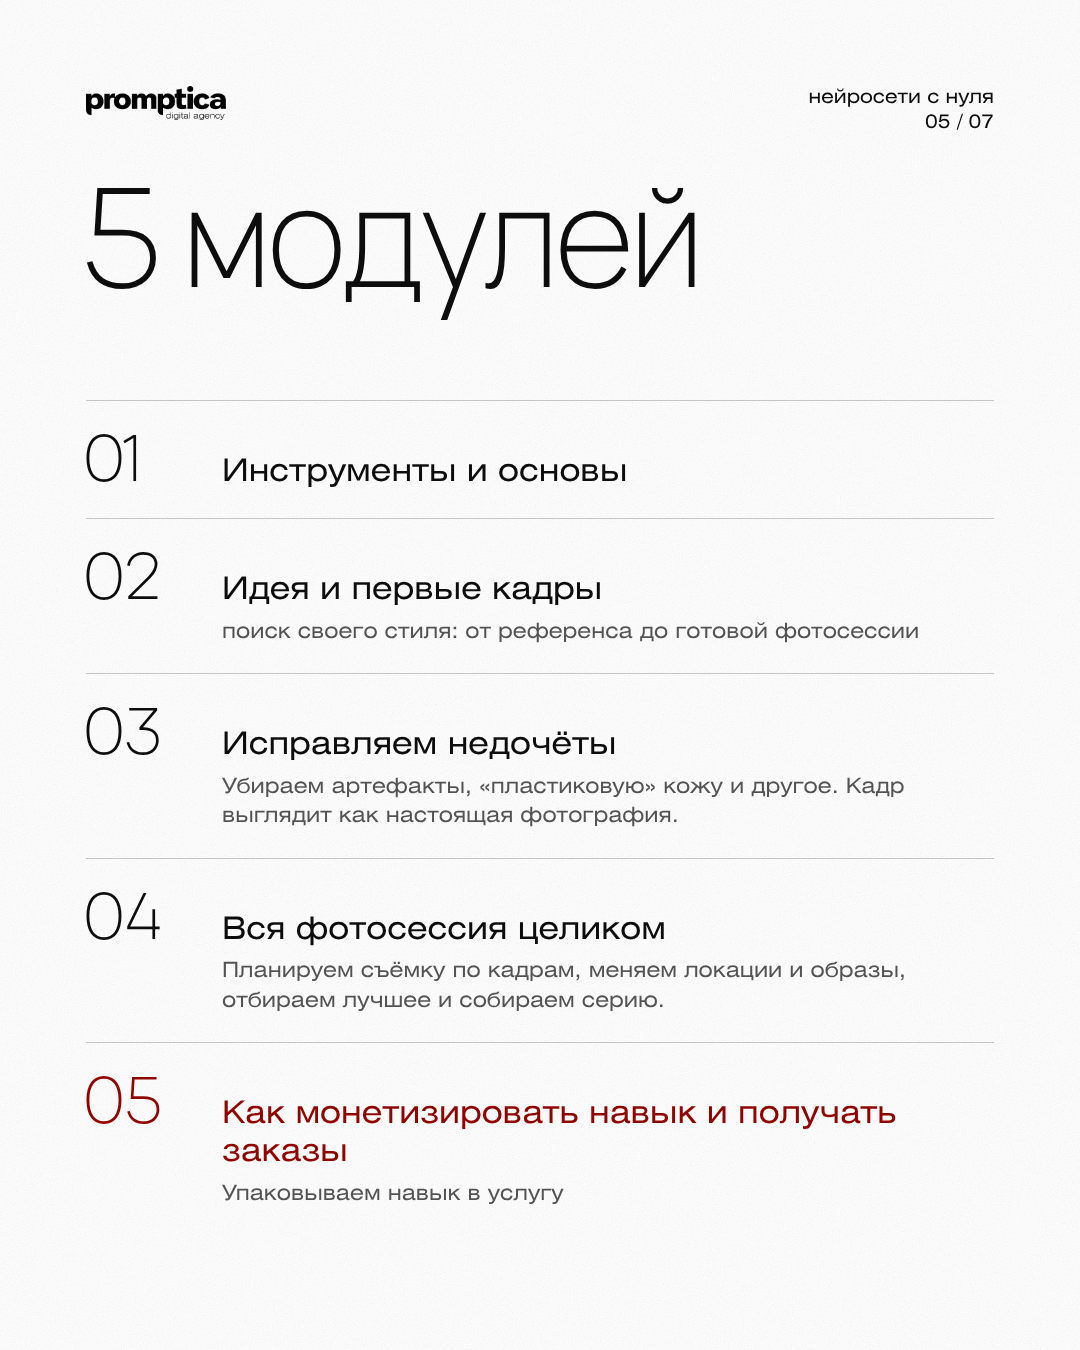
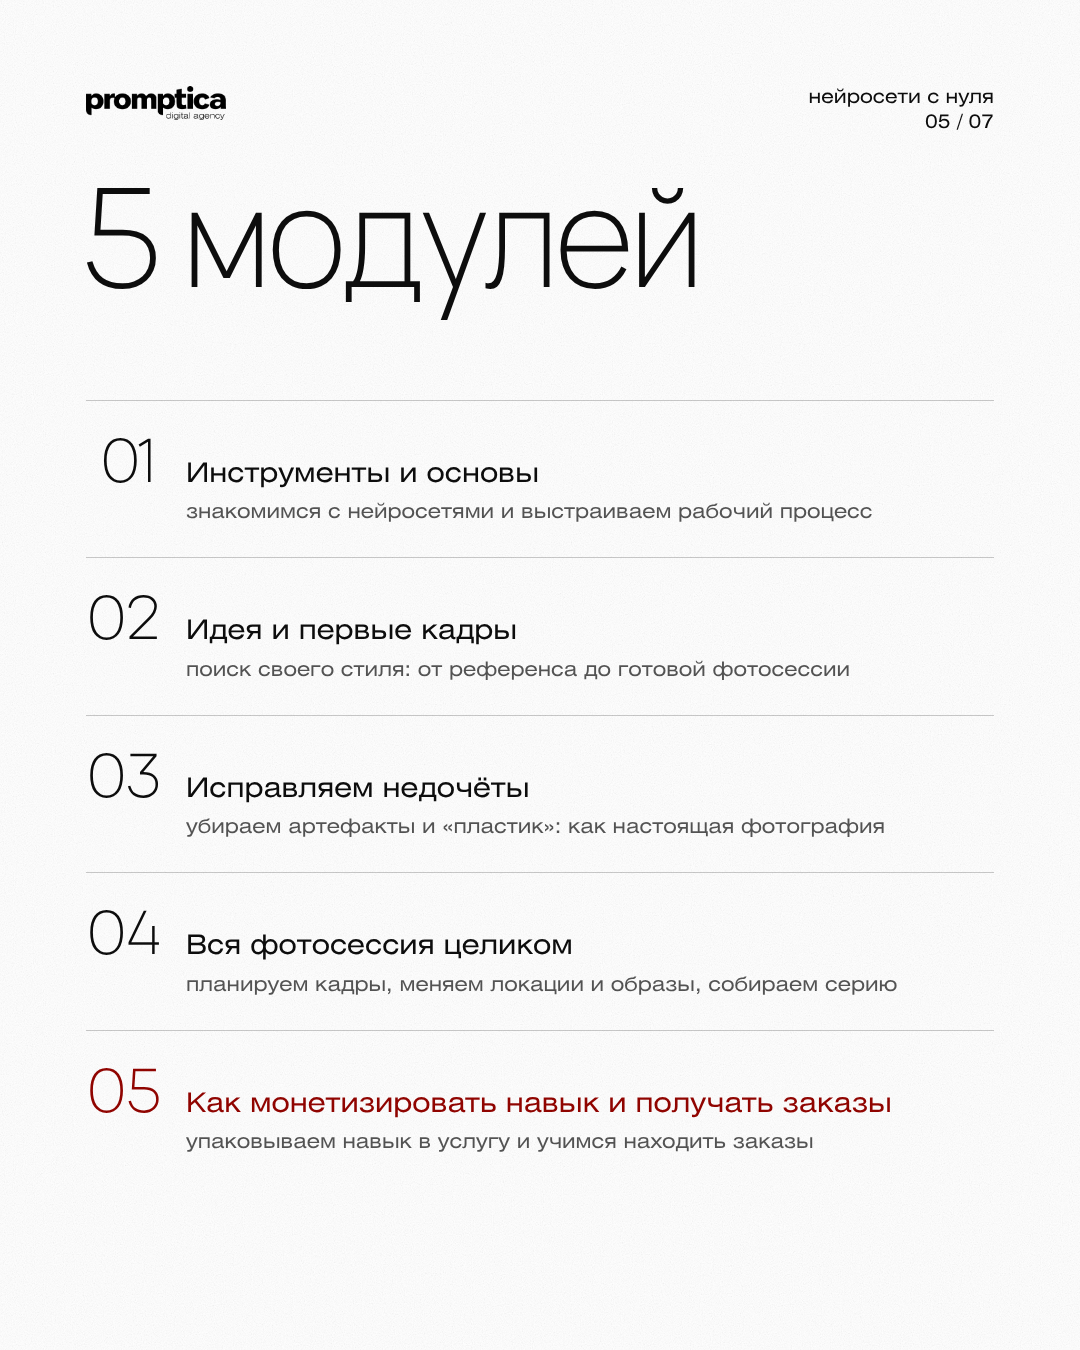
«Нейросети с нуля», слайд 5: цифры по правому краю, подзаголовки модулей одной длины, блоки одной высоты
Claude-Session: https://claude.ai/code/session_01V1NUh11xrVMcB1cs4GV2qz

diff --git a/carousels/promptica-course/05.html b/carousels/promptica-course/05.html
@@ -8,7 +8,7 @@
 <body>
   <div class="slide ">
     <div class="abs" style="left:86px;top:170px"><div class="thin" data-fit="620" style="">5 модулей</div></div>
-    <div class="abs" style="left:86px;top:400px;width:908px"><div style="display:flex;gap:30px;align-items:baseline;padding:26px 0;border-top:1px solid rgba(13,13,13,.22)"><div class="thin" style="font-size:64px;width:110px;flex:none">01</div><div style="flex:1"><div style="font-size:31px;line-height:1.22">Инструменты и основы</div></div></div><div style="display:flex;gap:30px;align-items:baseline;padding:26px 0;border-top:1px solid rgba(13,13,13,.22)"><div class="thin" style="font-size:64px;width:110px;flex:none">02</div><div style="flex:1"><div style="font-size:31px;line-height:1.22">Идея и первые кадры</div><div style='font-size:21px;line-height:1.4;opacity:.7;margin-top:8px'>поиск своего стиля: от референса до готовой фотосессии</div></div></div><div style="display:flex;gap:30px;align-items:baseline;padding:26px 0;border-top:1px solid rgba(13,13,13,.22)"><div class="thin" style="font-size:64px;width:110px;flex:none">03</div><div style="flex:1"><div style="font-size:31px;line-height:1.22">Исправляем недочёты</div><div style='font-size:21px;line-height:1.4;opacity:.7;margin-top:8px'>Убираем артефакты, «пластиковую» кожу и другое. Кадр выглядит как настоящая фотография.</div></div></div><div style="display:flex;gap:30px;align-items:baseline;padding:26px 0;border-top:1px solid rgba(13,13,13,.22)"><div class="thin" style="font-size:64px;width:110px;flex:none">04</div><div style="flex:1"><div style="font-size:31px;line-height:1.22">Вся фотосессия целиком</div><div style='font-size:21px;line-height:1.4;opacity:.7;margin-top:8px'>Планируем съёмку по кадрам, меняем локации и образы, отбираем лучшее и собираем серию.</div></div></div><div style="display:flex;gap:30px;align-items:baseline;padding:26px 0;border-top:1px solid rgba(13,13,13,.22)"><div class="thin rd" style="font-size:64px;width:110px;flex:none">05</div><div style="flex:1"><div style="font-size:31px;line-height:1.22;color:#930400">Как монетизировать навык и получать заказы</div><div style='font-size:21px;line-height:1.4;opacity:.7;margin-top:8px'>Упаковываем навык в услугу</div></div></div></div>
+    <div class="abs" style="left:86px;top:400px;width:908px"><div style="display:flex;gap:30px;align-items:baseline;padding:30px 0;border-top:1px solid rgba(13,13,13,.22)"><div class="thin" data-opt="0" style="font-size:60px;width:70px;flex:none;text-align:right">01</div><div style="flex:1;min-width:0"><div style="font-size:27px;line-height:1.2;white-space:nowrap">Инструменты и основы</div><div style="font-size:20px;line-height:1.4;opacity:.7;margin-top:8px;white-space:nowrap">знакомимся с нейросетями и выстраиваем рабочий процесс</div></div></div><div style="display:flex;gap:30px;align-items:baseline;padding:30px 0;border-top:1px solid rgba(13,13,13,.22)"><div class="thin" data-opt="0" style="font-size:60px;width:70px;flex:none;text-align:right">02</div><div style="flex:1;min-width:0"><div style="font-size:27px;line-height:1.2;white-space:nowrap">Идея и первые кадры</div><div style="font-size:20px;line-height:1.4;opacity:.7;margin-top:8px;white-space:nowrap">поиск своего стиля: от референса до готовой фотосессии</div></div></div><div style="display:flex;gap:30px;align-items:baseline;padding:30px 0;border-top:1px solid rgba(13,13,13,.22)"><div class="thin" data-opt="0" style="font-size:60px;width:70px;flex:none;text-align:right">03</div><div style="flex:1;min-width:0"><div style="font-size:27px;line-height:1.2;white-space:nowrap">Исправляем недочёты</div><div style="font-size:20px;line-height:1.4;opacity:.7;margin-top:8px;white-space:nowrap">убираем артефакты и «пластик»: как настоящая фотография</div></div></div><div style="display:flex;gap:30px;align-items:baseline;padding:30px 0;border-top:1px solid rgba(13,13,13,.22)"><div class="thin" data-opt="0" style="font-size:60px;width:70px;flex:none;text-align:right">04</div><div style="flex:1;min-width:0"><div style="font-size:27px;line-height:1.2;white-space:nowrap">Вся фотосессия целиком</div><div style="font-size:20px;line-height:1.4;opacity:.7;margin-top:8px;white-space:nowrap">планируем кадры, меняем локации и образы, собираем серию</div></div></div><div style="display:flex;gap:30px;align-items:baseline;padding:30px 0;border-top:1px solid rgba(13,13,13,.22)"><div class="thin rd" data-opt="0" style="font-size:60px;width:70px;flex:none;text-align:right">05</div><div style="flex:1;min-width:0"><div style="font-size:27px;line-height:1.2;white-space:nowrap;color:#930400">Как монетизировать навык и получать заказы</div><div style="font-size:20px;line-height:1.4;opacity:.7;margin-top:8px;white-space:nowrap">упаковываем навык в услугу и учимся находить заказы</div></div></div></div>
     <div class="hd"><img src="../../assets/logo_black.png" alt="promptica"></div>
     <div class="mt">нейросети с нуля<br>05 / 07</div>
     <svg class="grain"><filter id="g"><feTurbulence type="fractalNoise" baseFrequency=".9" numOctaves="3" seed="5" stitchTiles="stitch"/><feColorMatrix type="saturate" values="0"/></filter><rect width="100%" height="100%" filter="url(#g)"/></svg>

diff --git a/carousels/promptica-course/build.py b/carousels/promptica-course/build.py
@@ -69,12 +69,12 @@ page(4, f'''{ph(0,0,1080,1350,'фото на весь слайд','04-a.jpg','50
       </div>
     </div>''', '', 'logo_cream.png', ' style="color:#fff7e6"')
 # 5 — модули как оглавление
-mods = [('01', 'Инструменты и основы', '', False),
+mods = [('01', 'Инструменты и основы', 'знакомимся с нейросетями и выстраиваем рабочий процесс', False),
         ('02', 'Идея и первые кадры', 'поиск своего стиля: от референса до готовой фотосессии', False),
-        ('03', 'Исправляем недочёты', 'Убираем артефакты, «пластиковую» кожу и другое. Кадр выглядит как настоящая фотография.', False),
-        ('04', 'Вся фотосессия целиком', 'Планируем съёмку по кадрам, меняем локации и образы, отбираем лучшее и собираем серию.', False),
-        ('05', 'Как монетизировать навык и получать заказы', 'Упаковываем навык в услугу', True)]
-rows = ''.join(f'<div style="display:flex;gap:30px;align-items:baseline;padding:26px 0;border-top:1px solid rgba(13,13,13,.22)"><div class="thin{" rd" if r else ""}" style="font-size:64px;width:110px;flex:none">{n}</div><div style="flex:1"><div style="font-size:31px;line-height:1.22{";color:#930400" if r else ""}">{t}</div>{f"<div style=\'font-size:21px;line-height:1.4;opacity:.7;margin-top:8px\'>{d}</div>" if d else ""}</div></div>' for n, t, d, r in mods)
+        ('03', 'Исправляем недочёты', 'убираем артефакты и «пластик»: как настоящая фотография', False),
+        ('04', 'Вся фотосессия целиком', 'планируем кадры, меняем локации и образы, собираем серию', False),
+        ('05', 'Как монетизировать навык и получать заказы', 'упаковываем навык в услугу и учимся находить заказы', True)]
+rows = ''.join(f'<div style="display:flex;gap:30px;align-items:baseline;padding:30px 0;border-top:1px solid rgba(13,13,13,.22)"><div class="thin{" rd" if r else ""}" data-opt="0" style="font-size:60px;width:70px;flex:none;text-align:right">{n}</div><div style="flex:1;min-width:0"><div style="font-size:27px;line-height:1.2;white-space:nowrap{";color:#930400" if r else ""}">{t}</div><div style="font-size:20px;line-height:1.4;opacity:.7;margin-top:8px;white-space:nowrap">{d}</div></div></div>' for n, t, d, r in mods)
 page(5, f'''{fit('5 модулей',620,170)}
     <div class="abs" style="left:86px;top:400px;width:908px">{rows}</div>''')
 # 6 — блок цвета + фото снизу (Pretend)
